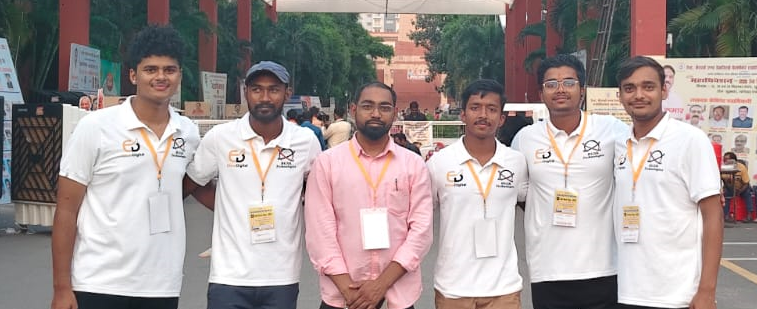
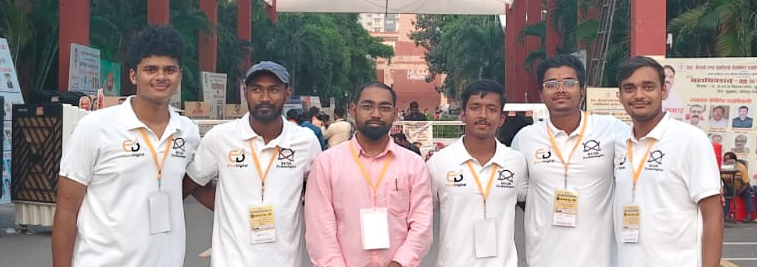
Add async schema and network setup on startup
Launcher startup now schedules background tasks to run `app/schema.py` and configure Windows firewall/network settings (ports 5000/5001, DNS flush/release/renew) without blocking UI load. The quick reference handbook formatting was cleaned up, and `team.png` was refreshed.

diff --git a/main.py b/main.py
@@ -199,6 +199,8 @@ class LauncherApp(ttk.Window):
         # Staggered startup for smooth UI loading
         self.after(50, self._process_gui_queue)
         self.after(500, self.check_system_health)
+        self.after(800, self._run_schema_script_async) # Triggers app/schema.py setup
+        self.after(1000, self._setup_network_firewall_async) # Optimizes Network & Firewall
         self.after(2000, self._poll_processes)
 
         # 🔊 Welcome Announcement
@@ -541,6 +543,74 @@ class LauncherApp(ttk.Window):
         self.log_box.text.configure(state="normal")
         self.log_box.text.delete("1.0", END)
         self.log_box.text.configure(state="disabled")
+
+    # --------------------------------------------------------------------------
+    # ASYNC SYSTEM/NETWORK RULES & SCHEMA INIT
+    # --------------------------------------------------------------------------
+    def _run_schema_script_async(self):
+        """Spawns a background thread to execute app/schema.py."""
+        threading.Thread(target=self._schema_task, daemon=True).start()
+
+    def _schema_task(self):
+        schema_script = os.path.join(APP_DIR, "schema.py")
+        if os.path.exists(schema_script):
+            self.log("Initializing database schema (app/schema.py)...", "INFO")
+            try:
+                flags = subprocess.CREATE_NO_WINDOW if os.name == 'nt' else 0
+                res = subprocess.run(
+                    [sys.executable, schema_script], 
+                    capture_output=True, 
+                    text=True, 
+                    cwd=APP_DIR, 
+                    creationflags=flags
+                )
+                if res.returncode == 0:
+                    self.log("Schema initialization completed successfully.", "SUCCESS")
+                else:
+                    err_msg = res.stderr.strip() or res.stdout.strip()
+                    self.log(f"Schema initialization failed: {err_msg}", "ERROR")
+            except Exception as e:
+                self.log(f"Error running schema script: {e}", "ERROR")
+        else:
+            self.log("Schema script (app/schema.py) not found. Skipping auto-initialization.", "WARNING")
+
+    def _setup_network_firewall_async(self):
+        """Spawns a background thread to check firewall rules and reset network."""
+        threading.Thread(target=self._network_firewall_task, daemon=True).start()
+
+    def _network_firewall_task(self):
+        if os.name != "nt":
+            return
+            
+        flags = subprocess.CREATE_NO_WINDOW
+        
+        # 1. Safely Check and Add Firewall Rule
+        self.log("Verifying EventHub firewall configurations...", "INFO")
+        ps_fw_cmd = (
+            "$rule = Get-NetFirewallRule -DisplayName 'EventHub Ports' -ErrorAction SilentlyContinue; "
+            "if (-not $rule) { "
+            "   New-NetFirewallRule -DisplayName 'EventHub Ports' -Direction Inbound -Action Allow -Protocol TCP -LocalPort 5000,5001 | Out-Null; "
+            "   Write-Output 'CREATED' "
+            "} else { Write-Output 'EXISTS' }"
+        )
+        try:
+            res = subprocess.run(["powershell", "-Command", ps_fw_cmd], capture_output=True, text=True, creationflags=flags)
+            if "CREATED" in res.stdout:
+                self.log("Added new inbound firewall rule for ports 5000, 5001.", "SUCCESS")
+            else:
+                self.log("Firewall rules for ports 5000 and 5001 are already configured.", "INFO")
+        except Exception as e:
+            self.log(f"Failed to configure firewall: {e}", "ERROR")
+
+        # 2. Reset Network Configs
+        self.log("Flushing DNS and renewing IP configuration (this may take a moment)...", "WARNING")
+        try:
+            subprocess.run(["ipconfig", "/flushdns"], capture_output=True, creationflags=flags)
+            subprocess.run(["ipconfig", "/release"], capture_output=True, creationflags=flags)
+            subprocess.run(["ipconfig", "/renew"], capture_output=True, creationflags=flags)
+            self.log("Network configuration reset successfully.", "SUCCESS")
+        except Exception as e:
+            self.log(f"Failed to reset network: {e}", "ERROR")
 
     # --------------------------------------------------------------------------
     # SYSTEM HEALTH & VERSION CHECKS
